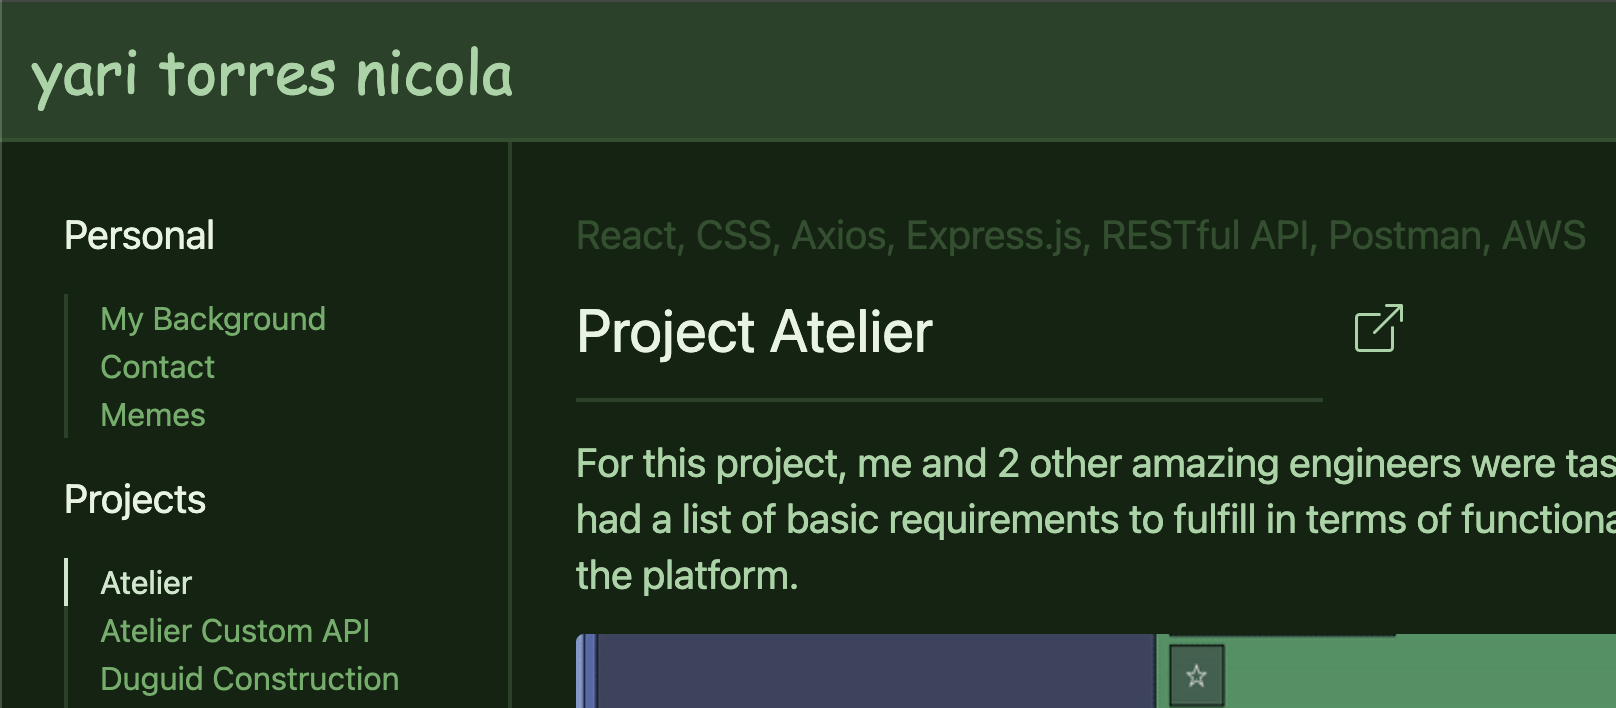
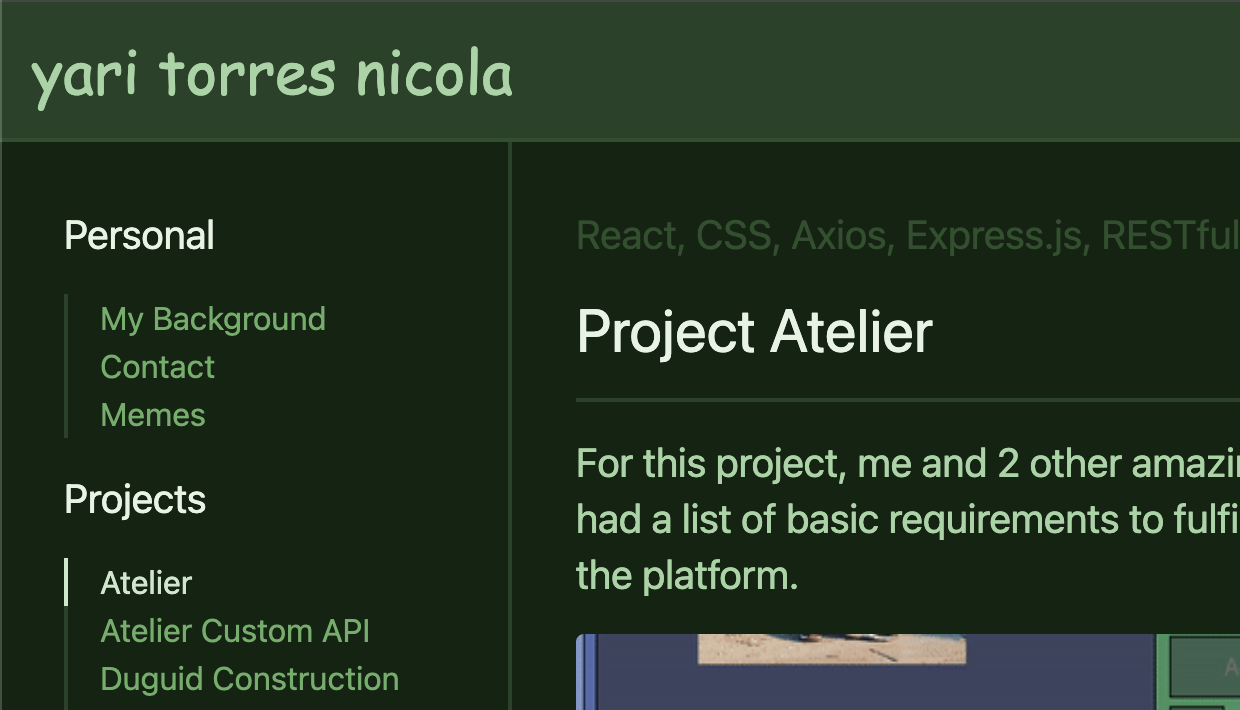
added more information to projects listed, thinking of adding personal artwork to image list

diff --git a/src/App.tsx b/src/App.tsx
@@ -3,12 +3,19 @@ import { useEffect, useState } from "react";
 function App() {
   const [isSideNavOpen, setIsSideNavOpen] = useState(false);
   const [activeSideNav, setActiveSideNav] = useState(0);
-  const [activeProjectList, setActiveProjectList] = useState(0);
   const [activePhotoList, setActivePhotoList] = useState(0);
 
   const sideNavItems = ['index', 'projects', 'contact'];
   const projectListItems = ['portfolio v.1', 'codeAndTell', 'atelier', 'duguid construction'];
-  const projectBlurbs = ['database revamp for mock e-commerce site', 'doooo goooood', 'mock e-commerce site'];
+  const projectBlurbs = [
+    'the first portfolio i created and deployed', 'a platform where devs can come together to easily find side projects to work on',
+    'mock e-commerce site in the early days of my bootcamp', 'final project to create a full-scale app for a mock construction company'
+  ];
+  const projectDates = ['2024', '2025', '2021', '2021'];
+  const projectTech = [
+    `[ react, next.js, vercel, tailwindCSS ]`, `[ react, vite, supabase, tailwindCSS, netlify ]`,
+    `[ react, next.js, vercel, tailwindCSS ]`, `[ react, next.js, vercel, tailwindCSS ]`
+  ]
   const photoList = ['public/portfolio-v1.png', 'public/codeAndTell.png', 'public/royalepage.gif', 'public/duguid.gif'];
 
   const testBorder = 'border-[0.5px] border-solid border-red-500';
@@ -21,7 +28,7 @@ function App() {
     inline-block text-white text-xs px-3 bg-black-900
     hover:text-black-950 hover:bg-white hover:cursor-pointer
   `;
-  const mainSectionStyle = `w-full min-h-full bg-black-900 rounded-lg grid grid-cols-8 grid-rows-4 gap-8 px-18 py-18`;
+  const mainSectionStyle = `w-full min-h-full bg-black-900 rounded-lg grid grid-cols-8 grid-rows-4 gap-4 px-18 py-18`;
   const projectItemStyle = `flex flex-col w-full h-full gap-y-1 font-main`;
   const gridStyle = `bg-black-800 w-full h-24`;
 
@@ -56,7 +63,7 @@ function App() {
 
         <div className={`w-full h-full flex flex-col gap-y-[12px] overflow-y-scroll scrollbar-hidden`}>
             <div className={mainSectionStyle}>
-              <div className={`col-span-2 row-span-2 font-main text-xl`}>
+              <div className={`col-span-2 row-span-2 font-main text-xl col-start-1`}>
                 welcome to my portfolio. <br></br>
                 welcome to my portfolio. <br></br>
                 welcome to my portfolio. <br></br>
@@ -66,20 +73,17 @@ function App() {
                 welcome to my portfolio. <br></br>
                 welcome to my portfolio. <br></br>
               </div>
-              <div className={gridStyle}></div>
-              <div className={gridStyle}></div>
-              <div className={`bg-blorange col-span-4 row-span-3`}>
+              <div className={`col-span-3 row-span-2 col-start-6 row-start-2`}>
                 { photoList.map((photo, key) =>
                   <div
                     key={key}
-                    className={`${projectItemStyle} ${ key === activePhotoList ? '' : 'hidden' }`}
+                    className={`h-full px-10 py-5 bg-black-800 ${ key === activePhotoList ? '' : 'hidden' }`}
                   >
-                    <img className={`w-full h-full overflow-hidden`} src={photo}></img>
+                    <img className={`object-cover h-full overflow-hidden`} src={photo}></img>
                   </div>
                 )}
               </div>
-              <div className={gridStyle}></div>
-              <div className={`flex flex-col gap-y-3 row-span-2`}>
+              <div className={`flex flex-col gap-y-3 col-span-2 row-span-1 col-start-4 row-start-3`}>
                 { projectListItems.map((nav, key) =>
                   <div
                     key={key}
@@ -87,18 +91,11 @@ function App() {
                   >
                     <p className="font-bold text-md">{nav}</p>
                     <p className={`text-xs`}>{projectBlurbs[key]}</p>
+                    <p className="text-[10px]">{projectTech[key]}</p>
+                    <p className="text-[8px]">{projectDates[key]}</p>
                   </div>
                 )}
               </div>
-              <div className={gridStyle}></div>
-              <div className={gridStyle}></div>
-              <div className={gridStyle}></div>
-              <div className={gridStyle}></div>
-              <div className={gridStyle}></div>
-              <div className={gridStyle}></div>
-              <div className={gridStyle}></div>
-              <div className={gridStyle}></div>
-              <div className={gridStyle}></div>
             </div>
 
             <div className={mainSectionStyle}>
